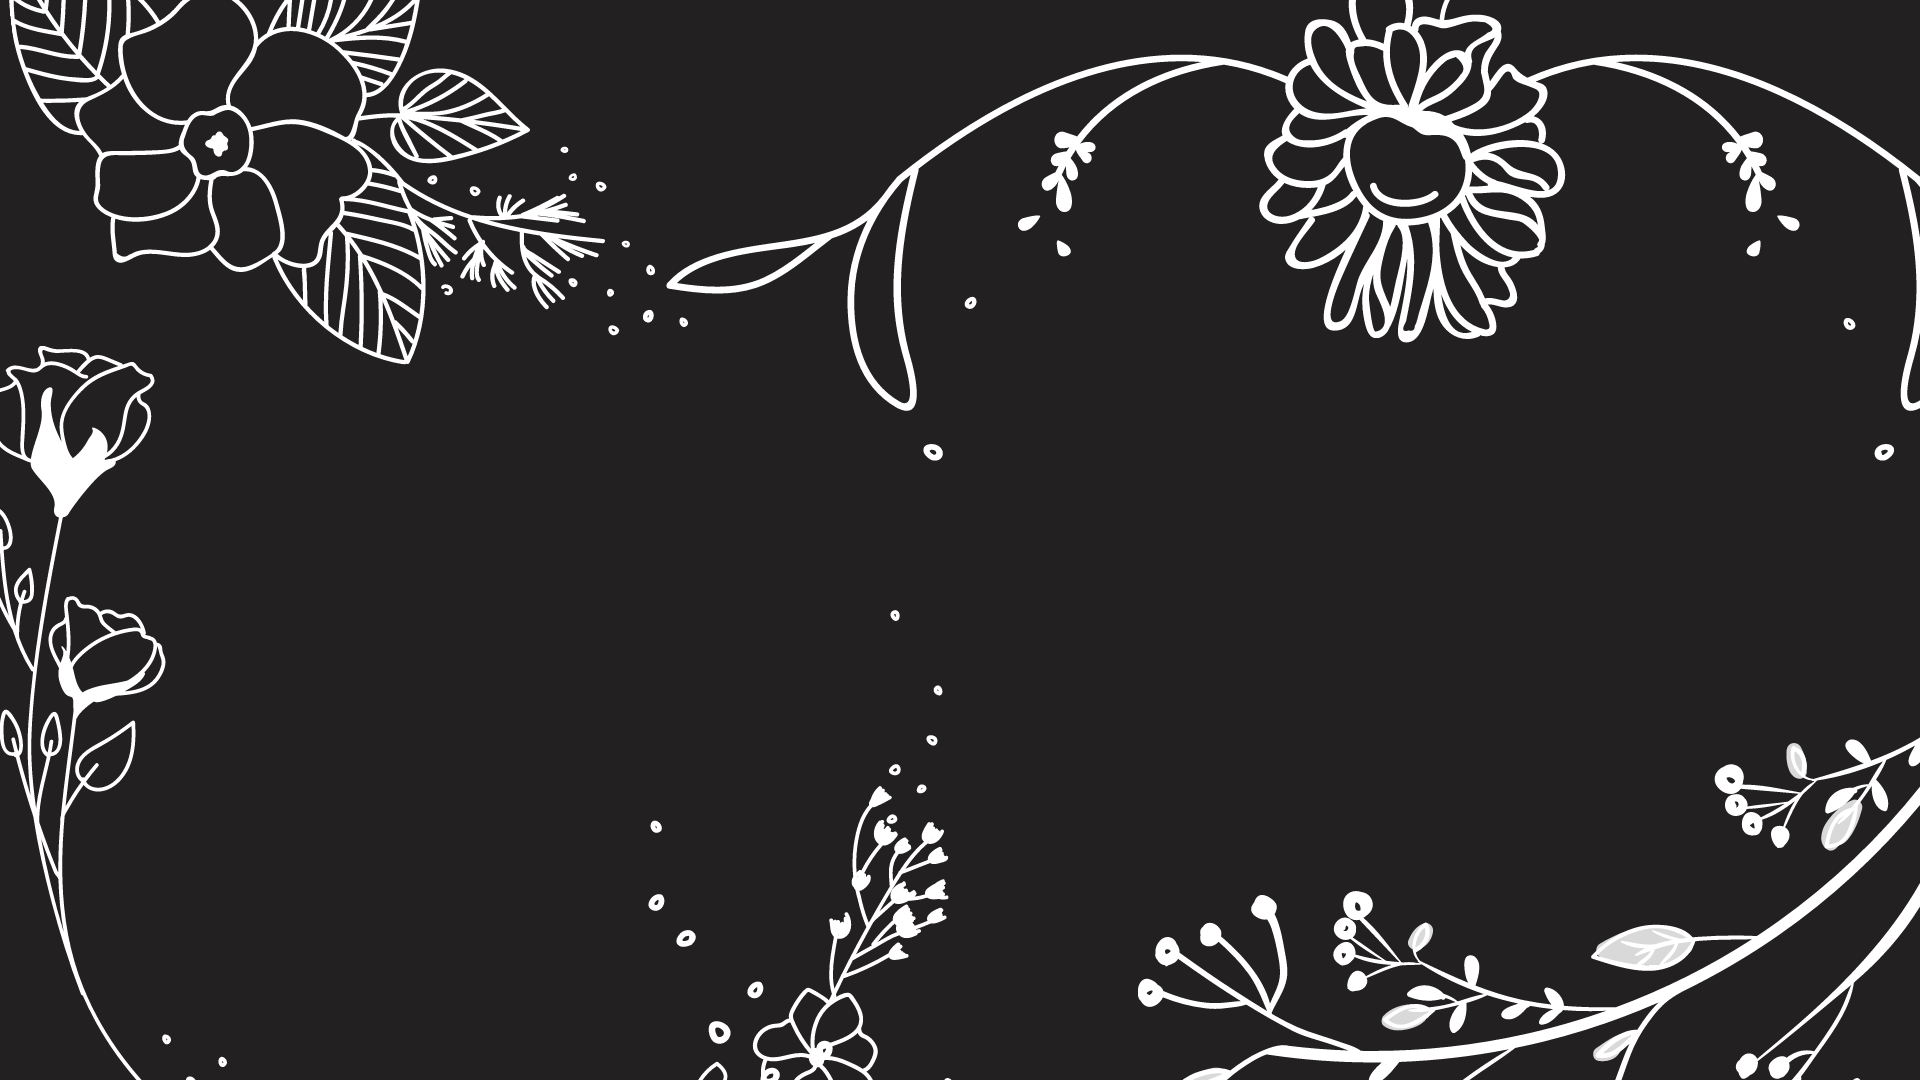
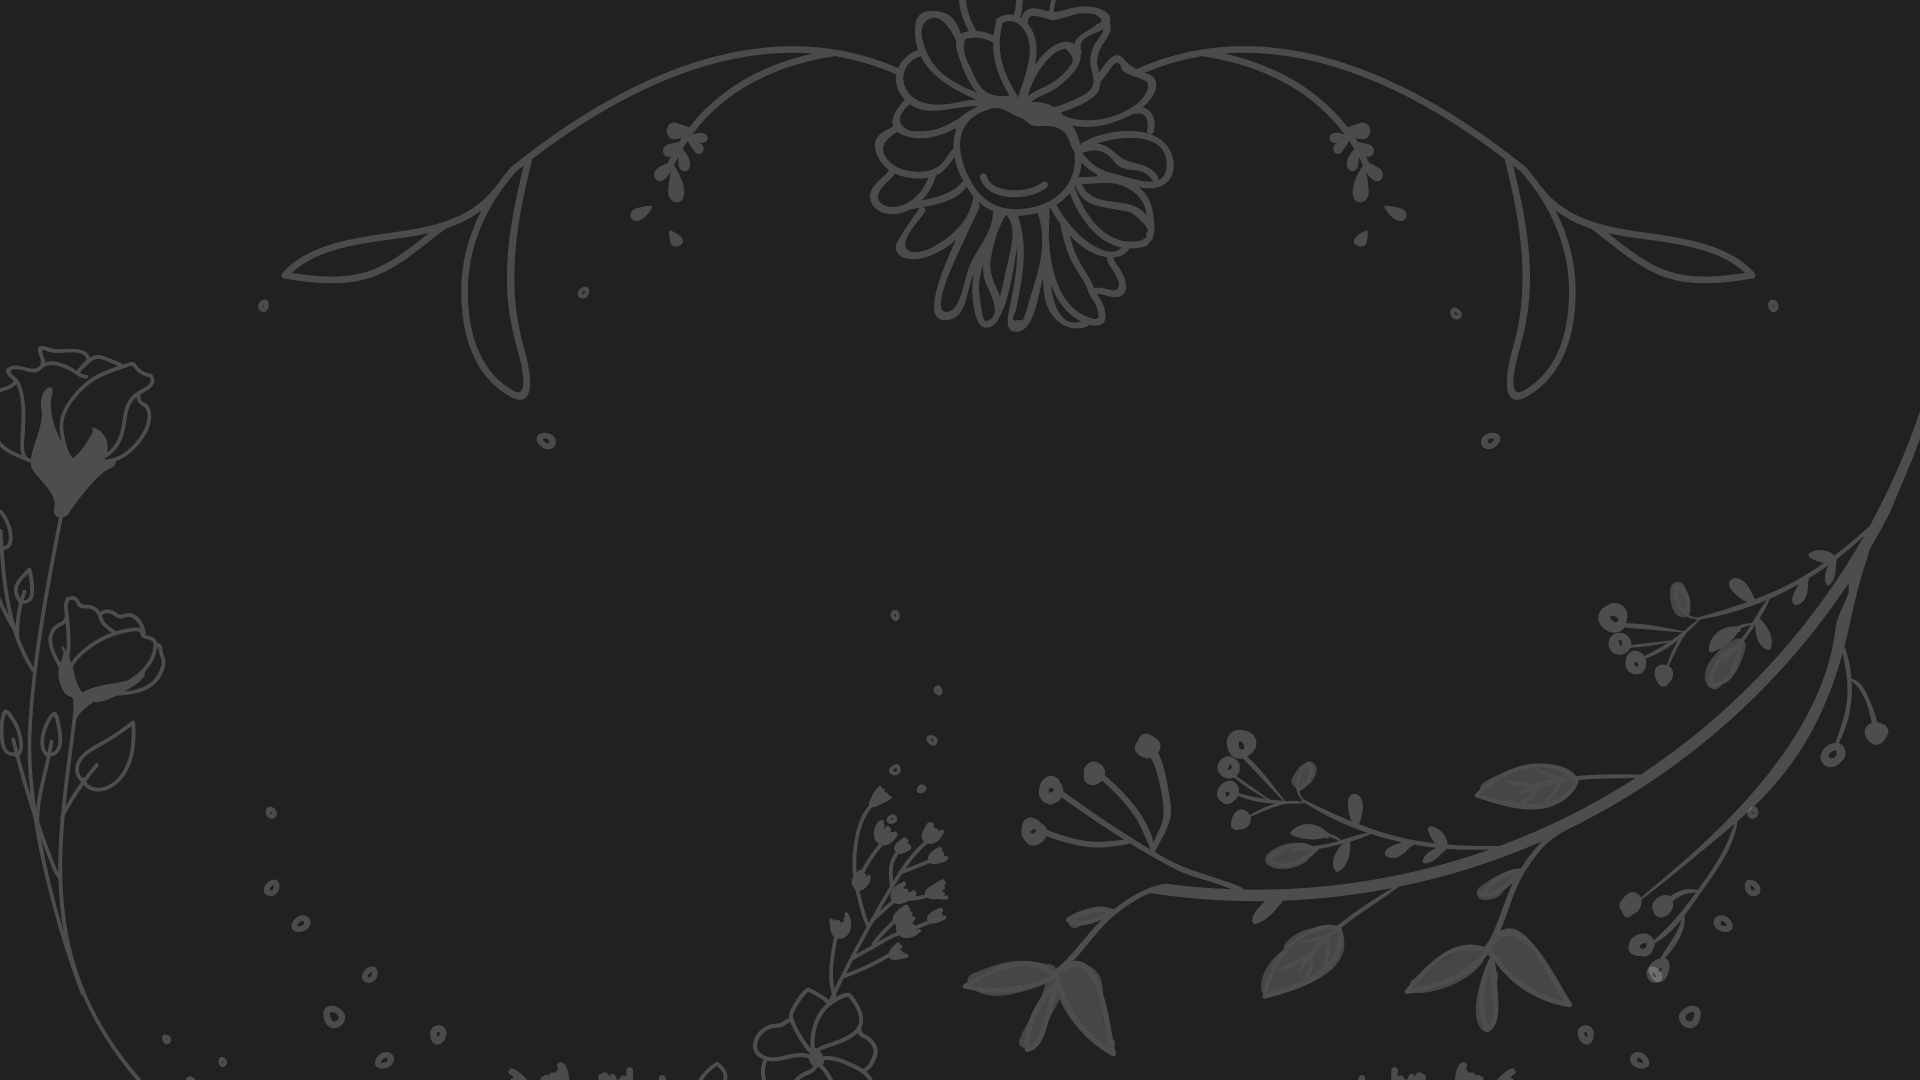
added background image to css styles for root div

diff --git a/frontend/src/Components/login.js b/frontend/src/Components/login.js
@@ -20,9 +20,8 @@ const Login = (props) => {
     const classes = useStyles();
 
     return (
-        <div className={ classes.back } >
+        <div className="Root" >
             <header >
-                <img src={logo} className="App-logo" alt="logo" />
                 <Button
                 endIcon={<LockOpenRoundedIcon />}
                 variant="contained"
@@ -30,7 +29,7 @@ const Login = (props) => {
                 colour="#086213"
                 href="https://accounts.spotify.com/authorize?response_type=code&client_id=c040d3bbb7854c27a1e4ca23de239e5e&redirect_uri=http://localhost:3000/callback"
                 >
-                Login
+                Login With Spotify
                 </Button>
             </header>
             

diff --git a/frontend/src/App.css b/frontend/src/App.css
@@ -7,8 +7,8 @@
   pointer-events: none;
 }
 
-.Login {
-  background-image: url('https://c8.alamy.com/comp/D22BAF/ladies-fancy-bag-D22BAF.jpg');
+.Root {
+  background-image: url('http://localhost:3000/static/media/Background2.2d7ac2c5.png');
   position: fixed;
   width: 100%;
   height:100%;
